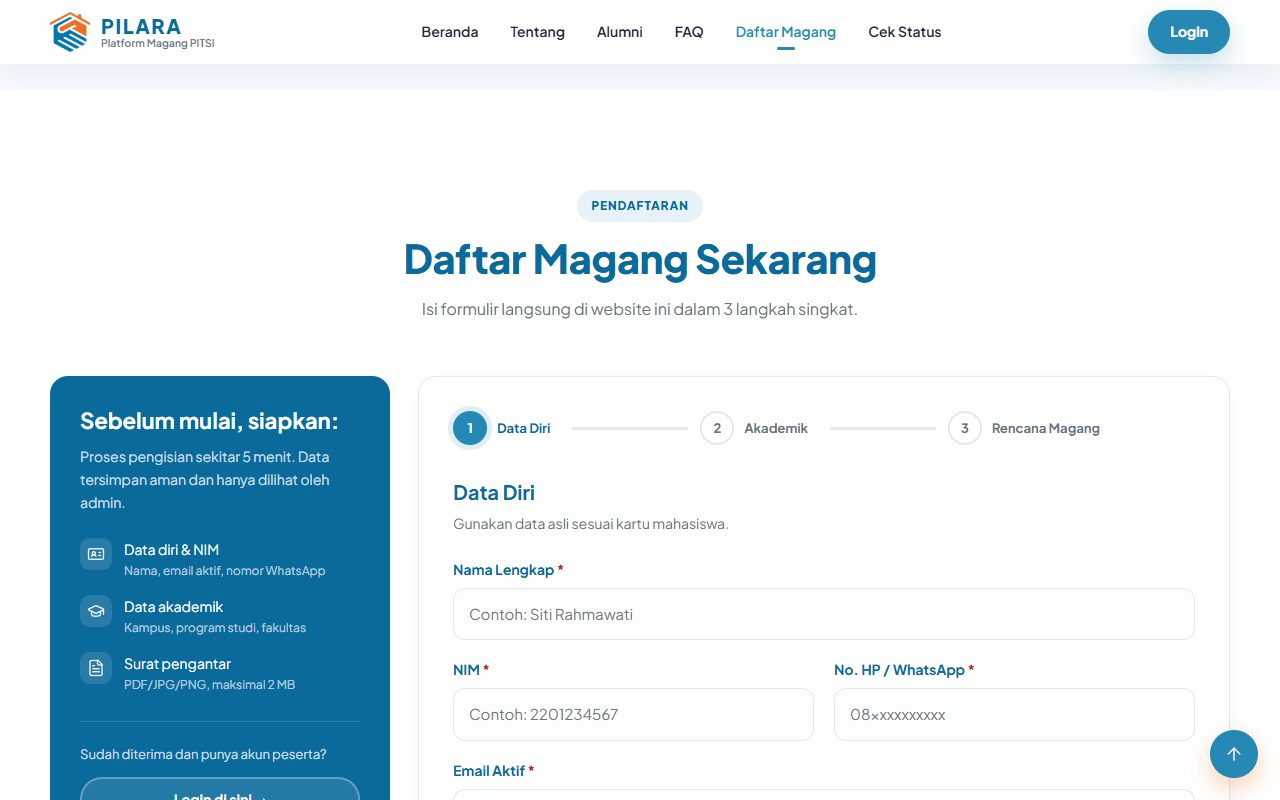
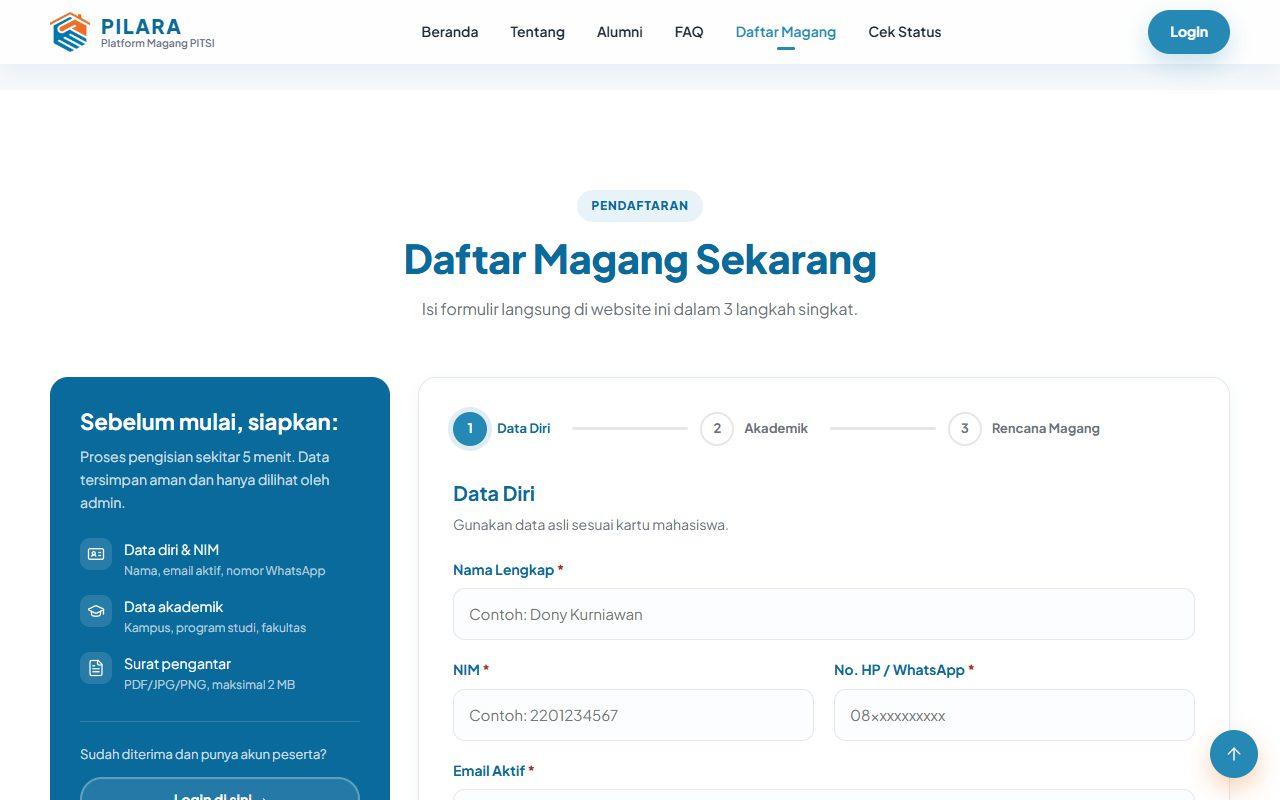
footer lebih terbaca dan contoh isian form pendaftaran baru
- logo footer diberi alas putih dan tagline dibuat terang di latar biru
- contoh isian: Dony Kurniawan, Politeknik Negeri Madiun, Teknologi Informasi
- screenshot formulir pendaftaran di buku panduan ikut diperbarui

diff --git a/resources/views/website/partials/pendaftaran.blade.php b/resources/views/website/partials/pendaftaran.blade.php
@@ -153,7 +153,7 @@
                                 <p>Gunakan data asli sesuai kartu mahasiswa.</p>
 
                                 <div class="field-grid">
-                                    <x-website.field name="nama" label="Nama Lengkap" required full autocomplete="name" maxlength="255" placeholder="Contoh: Siti Rahmawati" />
+                                    <x-website.field name="nama" label="Nama Lengkap" required full autocomplete="name" maxlength="255" placeholder="Contoh: Dony Kurniawan" />
                                     <x-website.field name="nim" label="NIM" required maxlength="30" placeholder="Contoh: 2201234567" pattern="[A-Za-z0-9.\-]+" />
                                     <x-website.field name="no_hp" type="tel" label="No. HP / WhatsApp" required autocomplete="tel" maxlength="20" placeholder="08xxxxxxxxxx" pattern="[0-9+\-\s]{8,20}" />
                                     <x-website.field name="email" type="email" label="Email Aktif" required full autocomplete="email" maxlength="255" placeholder="nama@email.com" hint="Dipakai untuk cek status pengajuan." />
@@ -167,8 +167,8 @@
                                 <p>Informasi kampus asal kamu.</p>
 
                                 <div class="field-grid">
-                                    <x-website.field name="asal_kampus" label="Asal Kampus" required full maxlength="255" placeholder="Contoh: Universitas Negeri Jakarta" />
-                                    <x-website.field name="program_studi" label="Program Studi" required maxlength="255" placeholder="Contoh: Sistem Informasi" />
+                                    <x-website.field name="asal_kampus" label="Asal Kampus" required full maxlength="255" placeholder="Contoh: Politeknik Negeri Madiun" />
+                                    <x-website.field name="program_studi" label="Program Studi" required maxlength="255" placeholder="Contoh: Teknologi Informasi" />
                                     <x-website.field name="fakultas" label="Fakultas" maxlength="255" placeholder="Opsional" />
                                 </div>
                             </fieldset>

diff --git a/resources/views/website/partials/styles.blade.php b/resources/views/website/partials/styles.blade.php
@@ -2550,6 +2550,21 @@
         color: var(--white);
     }
 
+    /* Latar footer biru: logo diberi alas putih dan tagline dibuat terang agar terbaca. */
+    .footer-grid .logo-mark {
+        width: 46px;
+        height: 46px;
+        padding: 5px;
+
+        border-radius: 12px;
+
+        background: var(--white);
+    }
+
+    .footer-grid .logo-teks small {
+        color: rgba(255, 255, 255, .78);
+    }
+
     .footer-grid p {
         max-width: 340px;
 

diff --git a/docs/panduan/alat/ambil_screenshot.py b/docs/panduan/alat/ambil_screenshot.py
@@ -23,7 +23,7 @@ import websockets
 
 sys.stdout.reconfigure(encoding='utf-8')
 
-BASIS = 'http://127.0.0.1:8020'
+BASIS = os.environ.get('PANDUAN_BASIS', 'http://127.0.0.1:8020')
 PROYEK = os.path.abspath(os.path.join(os.path.dirname(__file__), '..', '..', '..'))
 KELUAR = os.path.join(PROYEK, 'public', 'images', 'panduan')
 PROFIL = os.path.join(os.environ.get('TEMP', '/tmp'), 'chrome-profil-panduan')
